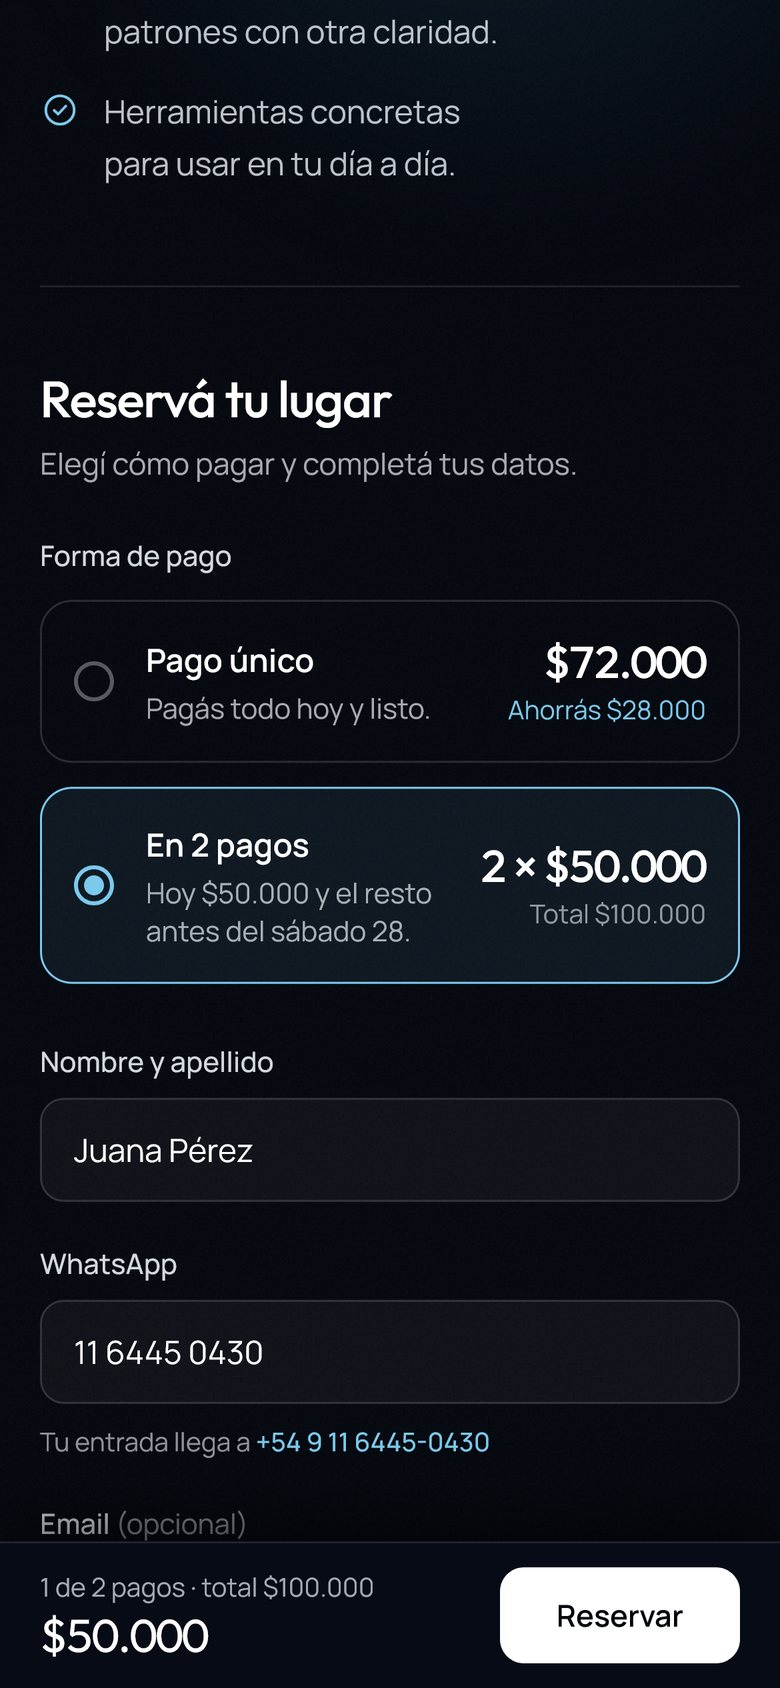
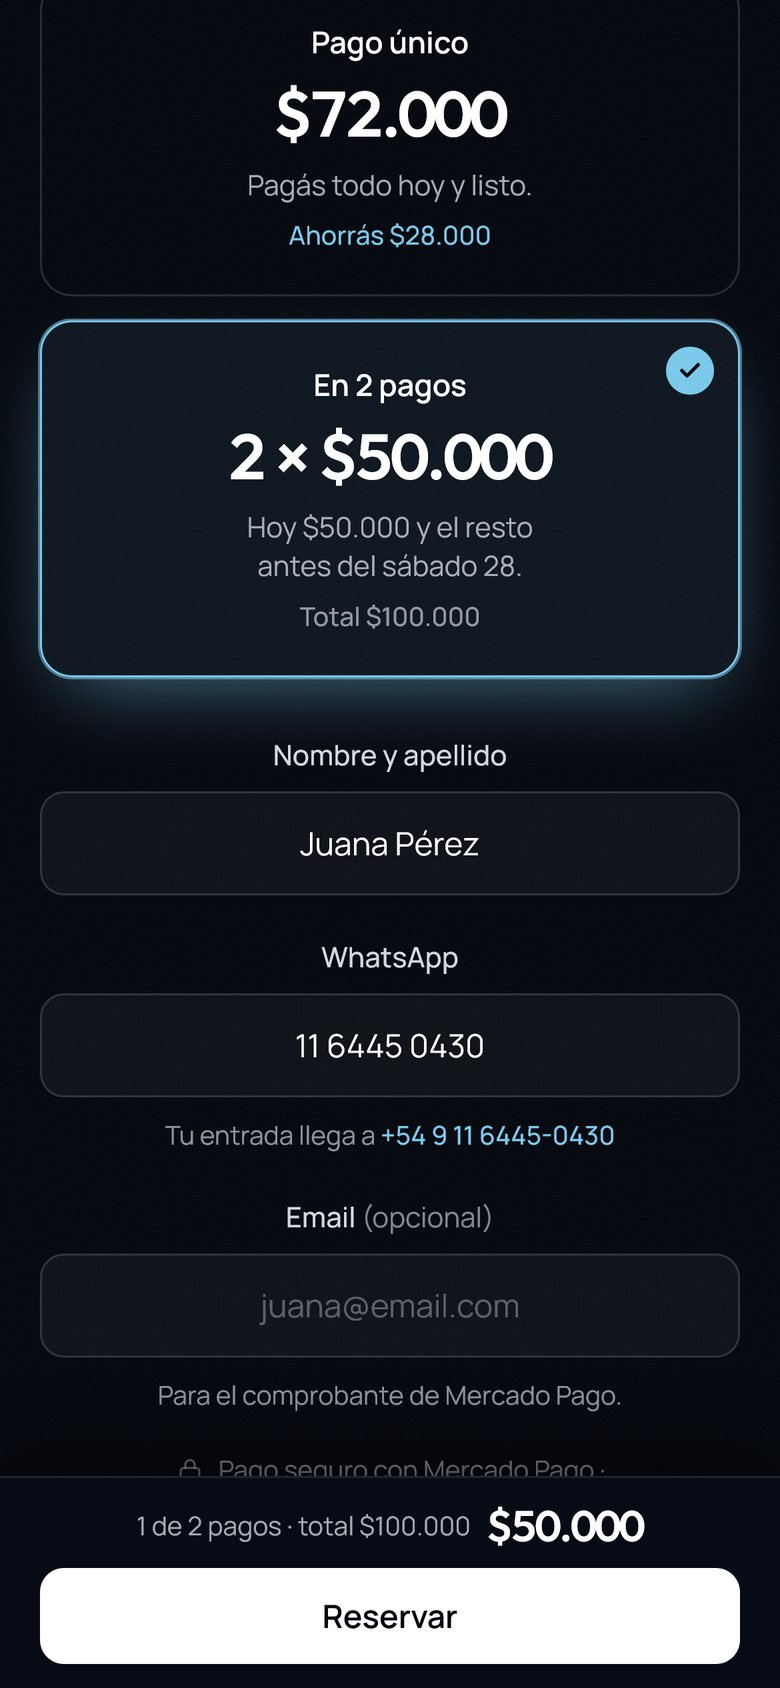
feat: /entradas centrada en celular
Solo debajo de lg (escritorio queda igual): linea superior, titulo y
bajada centrados con text-wrap balance; fecha centrada y datos en 2x2 con
el icono arriba; "Que te llevas" centrado; opciones de pago con el
contenido centrado y la elegida marcada con borde, brillo y un check en la
esquina (el radio sigue accesible); labels, ayudas, errores y texto de los
inputs centrados; barra fija con plan y total centrados arriba del boton a
ancho completo (~106 px). Al validar, el campo que falta queda al centro de
la pantalla y no tapado por la barra. Capturas en 390 y 360 actualizadas.

diff --git a/app/components/TicketCheckout.tsx b/app/components/TicketCheckout.tsx
@@ -138,6 +138,8 @@ export function TicketCheckout({
   const redirecting = Boolean(redirectUrl);
   const busy = isPending || redirecting;
   const showErrors = touched;
+  // /entradas en celular (< lg): textos, campos y avisos centrados. Escritorio igual que siempre.
+  const center = variant === 'page' ? ' text-center lg:text-left' : '';
 
   const buttonLabel = !hydrated
     ? 'Cargando…'
@@ -155,8 +157,11 @@ export function TicketCheckout({
     setError(null);
     if (!hydrated || busy) return;
     if (!isValid) {
-      // Llevamos a la persona al primer dato que falta (en celular puede estar arriba).
-      (!nameOk ? nameRef : !phoneOk ? phoneRef : emailRef).current?.focus();
+      // Llevamos a la persona al primer dato que falta, al centro de la pantalla:
+      // con el scroll normal del foco quedaba tapado por la barra fija del celular.
+      const target = (!nameOk ? nameRef : !phoneOk ? phoneRef : emailRef).current;
+      target?.focus({ preventScroll: true });
+      target?.scrollIntoView({ behavior: 'smooth', block: 'center' });
       return;
     }
 
@@ -212,24 +217,100 @@ export function TicketCheckout({
         ) : null}
 
         {variant === 'page' ? (
-          <div>
+          <div className={center}>
             <h2 className="display-sm text-[1.6rem] leading-tight text-white">Reservá tu lugar</h2>
-            <p className="mt-1.5 text-[15px] text-ivory/70">Elegí cómo pagar y completá tus datos.</p>
+            <p className="mt-1.5 text-[15px] text-ivory/70 [text-wrap:balance]">Elegí cómo pagar y completá tus datos.</p>
           </div>
         ) : null}
 
         {typeof remaining === 'number' && remaining > 0 && remaining <= 15 ? (
-          <p className="mt-4 inline-flex rounded-full border border-sand/40 bg-sand/10 px-3 py-1 text-[13px] font-medium text-sand">
-            {remaining === 1 ? 'Queda 1 lugar' : `Quedan ${remaining} lugares`}
-          </p>
+          <div className={center}>
+            <p className="mt-4 inline-flex rounded-full border border-sand/40 bg-sand/10 px-3 py-1 text-[13px] font-medium text-sand">
+              {remaining === 1 ? 'Queda 1 lugar' : `Quedan ${remaining} lugares`}
+            </p>
+          </div>
         ) : null}
 
         <fieldset className={variant === 'modal' ? 'mt-5' : 'mt-6'}>
-          <legend className={labelClass}>Forma de pago</legend>
+          <legend className={`${labelClass}${variant === 'page' ? ' w-full text-center lg:text-left' : ''}`}>
+            Forma de pago
+          </legend>
           <div className="mt-3 grid gap-3">
             {(Object.keys(PLAN_COPY) as TicketPlan[]).map((id) => {
               const copy = PLAN_COPY[id];
               const active = plan === id;
+              const radio = (
+                <input
+                  type="radio"
+                  name={`plan-${ids}`}
+                  value={id}
+                  checked={active}
+                  onChange={() => setPlan(id)}
+                  className="sr-only"
+                />
+              );
+
+              /*
+                /entradas en celular: contenido centrado y la opcion elegida
+                marcada con borde, brillo y un check en la esquina (el radio
+                sigue ahi, invisible, para teclado y lectores de pantalla).
+                En escritorio, la misma fila de siempre con el radio a la izquierda.
+              */
+              if (variant === 'page') {
+                return (
+                  <label
+                    key={id}
+                    className={`relative flex cursor-pointer flex-col items-center rounded-2xl border px-5 py-5 text-center transition has-[:focus-visible]:ring-2 has-[:focus-visible]:ring-celeste/70 lg:flex-row lg:gap-4 lg:px-5 lg:py-4 lg:text-left lg:shadow-none ${
+                      active
+                        ? 'border-celeste bg-celeste/[0.08] shadow-[0_0_0_1px_rgba(124,201,236,0.55),0_14px_40px_-14px_rgba(124,201,236,0.6)]'
+                        : 'border-ivory/15 [@media(hover:hover)]:hover:border-ivory/35'
+                    }`}
+                  >
+                    {radio}
+                    {active ? (
+                      <span
+                        aria-hidden="true"
+                        className="absolute right-3 top-3 flex h-6 w-6 items-center justify-center rounded-full bg-celeste text-night lg:hidden"
+                      >
+                        <svg viewBox="0 0 24 24" className="h-3.5 w-3.5" fill="none" stroke="currentColor" strokeWidth={3} strokeLinecap="round" strokeLinejoin="round">
+                          <path d="m5 12.5 4.5 4.5L19 7.5" />
+                        </svg>
+                      </span>
+                    ) : null}
+
+                    {/* celular */}
+                    <span className="flex flex-col items-center lg:hidden">
+                      <span className="text-[15px] font-semibold text-white">{copy.title}</span>
+                      <span className="numeric mt-1 text-[2rem] font-semibold leading-tight text-white">{copy.price}</span>
+                      <span className="mt-1.5 max-w-[17rem] text-[14px] leading-snug text-ivory/70 [text-wrap:balance]">
+                        {copy.detail}
+                      </span>
+                      <span className={`mt-1.5 text-[13px] font-medium ${id === 'FULL' ? 'text-celeste' : 'text-ivory/60'}`}>
+                        {copy.note}
+                      </span>
+                    </span>
+
+                    {/* escritorio */}
+                    <span
+                      aria-hidden="true"
+                      className={`hidden h-5 w-5 flex-none items-center justify-center rounded-full border-2 lg:flex ${
+                        active ? 'border-celeste' : 'border-ivory/35'
+                      }`}
+                    >
+                      {active ? <span className="h-2.5 w-2.5 rounded-full bg-celeste" /> : null}
+                    </span>
+                    <span className="hidden min-w-0 flex-1 lg:block">
+                      <span className="block text-[16px] font-semibold text-white">{copy.title}</span>
+                      <span className="mt-0.5 block text-[14px] leading-snug text-ivory/70">{copy.detail}</span>
+                    </span>
+                    <span className="hidden flex-none text-right lg:block">
+                      <span className="numeric block text-[1.55rem] font-medium leading-tight text-white">{copy.price}</span>
+                      <span className={`block text-[13px] ${id === 'FULL' ? 'text-celeste' : 'text-ivory/60'}`}>{copy.note}</span>
+                    </span>
+                  </label>
+                );
+              }
+
               return (
                 <label
                   key={id}
@@ -237,14 +318,7 @@ export function TicketCheckout({
                     active ? 'border-celeste bg-celeste/[0.08]' : 'border-ivory/15 hover:border-ivory/35'
                   }`}
                 >
-                  <input
-                    type="radio"
-                    name={`plan-${ids}`}
-                    value={id}
-                    checked={active}
-                    onChange={() => setPlan(id)}
-                    className="sr-only"
-                  />
+                  {radio}
                   <span
                     aria-hidden="true"
                     className={`flex h-5 w-5 flex-none items-center justify-center rounded-full border-2 ${
@@ -273,13 +347,13 @@ export function TicketCheckout({
 
         <div className="mt-7 grid gap-5">
           <div>
-            <label htmlFor={fieldIds.name} className={labelClass}>
+            <label htmlFor={fieldIds.name} className={`${labelClass}${center}`}>
               Nombre y apellido
             </label>
             <input
               ref={nameRef}
               id={fieldIds.name}
-              className={inputClass(showErrors && !nameOk)}
+              className={`${inputClass(showErrors && !nameOk)}${center}`}
               placeholder="Juana Pérez"
               value={fullName}
               onChange={(e) => setFullName(e.target.value)}
@@ -289,20 +363,20 @@ export function TicketCheckout({
               aria-describedby={showErrors && !nameOk ? fieldIds.nameError : undefined}
             />
             {showErrors && !nameOk ? (
-              <p id={fieldIds.nameError} className={errorTextClass}>
+              <p id={fieldIds.nameError} className={`${errorTextClass}${center}`}>
                 Escribí tu nombre y apellido.
               </p>
             ) : null}
           </div>
 
           <div>
-            <label htmlFor={fieldIds.phone} className={labelClass}>
+            <label htmlFor={fieldIds.phone} className={`${labelClass}${center}`}>
               WhatsApp
             </label>
             <input
               ref={phoneRef}
               id={fieldIds.phone}
-              className={inputClass(showErrors && !phoneOk)}
+              className={`${inputClass(showErrors && !phoneOk)}${center}`}
               placeholder="11 6445 0430"
               value={phone}
               onChange={(e) => setPhone(e.target.value)}
@@ -312,7 +386,7 @@ export function TicketCheckout({
               aria-invalid={showErrors && !phoneOk}
               aria-describedby={fieldIds.phoneHint}
             />
-            <p id={fieldIds.phoneHint} className={showErrors && !phoneOk ? errorTextClass : hintClass}>
+            <p id={fieldIds.phoneHint} className={`${showErrors && !phoneOk ? errorTextClass : hintClass}${center}`}>
               {showErrors && !phoneOk ? (
                 ERROR_TEXT.PHONE
               ) : phoneOk ? (
@@ -326,13 +400,13 @@ export function TicketCheckout({
           </div>
 
           <div>
-            <label htmlFor={fieldIds.email} className={labelClass}>
+            <label htmlFor={fieldIds.email} className={`${labelClass}${center}`}>
               Email <span className="font-normal text-ivory/55">(opcional)</span>
             </label>
             <input
               ref={emailRef}
               id={fieldIds.email}
-              className={inputClass(showErrors && !emailOk)}
+              className={`${inputClass(showErrors && !emailOk)}${center}`}
               placeholder="juana@email.com"
               value={email}
               onChange={(e) => setEmail(e.target.value)}
@@ -342,7 +416,7 @@ export function TicketCheckout({
               aria-invalid={showErrors && !emailOk}
               aria-describedby={fieldIds.emailHint}
             />
-            <p id={fieldIds.emailHint} className={showErrors && !emailOk ? errorTextClass : hintClass}>
+            <p id={fieldIds.emailHint} className={`${showErrors && !emailOk ? errorTextClass : hintClass}${center}`}>
               {showErrors && !emailOk ? 'Revisá el email o dejalo vacío.' : 'Para el comprobante de Mercado Pago.'}
             </p>
           </div>
@@ -368,7 +442,7 @@ export function TicketCheckout({
           <div
             ref={alertRef}
             role="alert"
-            className="mt-6 scroll-mb-32 rounded-xl border border-sand/40 bg-sand/[0.08] p-4 text-[15px] leading-relaxed text-sand"
+            className={`mt-6 scroll-mb-32 rounded-xl border border-sand/40 bg-sand/[0.08] p-4 text-[15px] leading-relaxed text-sand${center}`}
           >
             {ERROR_TEXT[error]}
             {error === 'SOLD_OUT' || error === 'PAYMENTS_OFF' ? (
@@ -411,19 +485,21 @@ export function TicketCheckout({
           className="fixed inset-x-0 bottom-0 z-40 border-t border-ivory/10 bg-[#070B15] shadow-[0_-12px_32px_rgba(0,0,0,0.55)] lg:hidden"
           style={{ paddingBottom: 'env(safe-area-inset-bottom, 0px)' }}
         >
-          <div className="mx-auto flex w-full max-w-xl items-center gap-4 px-5 py-3">
-            <div className="min-w-0 flex-1" aria-live="polite">
-              <p className="truncate text-[13px] text-ivory/70">
+          {/* Plan y total centrados en una linea, boton a ancho completo abajo
+              (la barra queda en ~106 px de alto, sin contar el borde seguro del iPhone). */}
+          <div className="mx-auto w-full max-w-xl px-5 pb-3 pt-2.5">
+            <p className="truncate text-center leading-tight" aria-live="polite">
+              <span className="align-middle text-[13px] text-ivory/70">
                 {plan === 'FULL' ? 'Pago único' : `1 de 2 pagos · total ${SPLIT_TOTAL_LABEL}`}
-              </p>
-              <p className="numeric text-[1.45rem] leading-tight text-white">{firstPayment}</p>
-            </div>
+              </span>
+              <span className="numeric ml-2 align-middle text-[1.35rem] font-semibold text-white">{firstPayment}</span>
+            </p>
             <button
               type="submit"
               form={formId}
               disabled={busy || !hydrated}
               aria-busy={busy || !hydrated}
-              className="h-12 min-w-[7.5rem] flex-none rounded-xl bg-celeste px-6 text-[15px] font-semibold text-night transition [@media(hover:hover)]:hover:bg-white focus-visible:outline-none focus-visible:ring-2 focus-visible:ring-white focus-visible:ring-offset-2 focus-visible:ring-offset-night disabled:cursor-wait disabled:opacity-75"
+              className="mt-2 h-12 w-full rounded-xl bg-celeste px-6 text-[16px] font-semibold text-night transition [@media(hover:hover)]:hover:bg-white focus-visible:outline-none focus-visible:ring-2 focus-visible:ring-white focus-visible:ring-offset-2 focus-visible:ring-offset-night disabled:cursor-wait disabled:opacity-75"
             >
               {!hydrated
                 ? 'Cargando…'

diff --git a/app/entradas/page.tsx b/app/entradas/page.tsx
@@ -59,42 +59,48 @@ export default async function EntradasPage() {
     <EntradasShell wide>
       <div className="grid gap-12 lg:grid-cols-[minmax(0,1fr)_minmax(0,27rem)] lg:items-start lg:gap-16 xl:gap-24">
         {/* ------------------------------------------------------- evento */}
-        <section aria-labelledby="titulo-taller" className="lg:pt-4">
+        {/* Celular y tablet (< lg): todo centrado sobre el mismo eje.
+            Escritorio (lg): alineado a la izquierda, como siempre. */}
+        <section aria-labelledby="titulo-taller" className="text-center lg:pt-4 lg:text-left">
           <p className="text-[15px] font-medium text-celeste">Metamorfosis · 7ma edición</p>
           <h1
             id="titulo-taller"
-            className="display mt-3 max-w-[14ch] text-[2.4rem] leading-[1.05] text-white [text-wrap:balance] sm:text-[3.1rem] lg:text-[3.6rem]"
+            className="display mx-auto mt-3 max-w-[14ch] text-[2.1rem] leading-[1.05] text-white [text-wrap:balance] min-[380px]:text-[2.4rem] sm:text-[3.1rem] lg:mx-0 lg:text-[3.6rem]"
           >
             Taller vivencial de inteligencia emocional
           </h1>
-          <p className="mt-5 max-w-[34rem] text-[17px] leading-relaxed text-ivory/75 [text-wrap:balance] sm:text-[19px]">
+          <p className="mx-auto mt-5 max-w-[34rem] text-[17px] leading-relaxed text-ivory/75 [text-wrap:balance] sm:text-[19px] lg:mx-0">
             Un fin de semana para frenar, entender lo que sentís y salir con herramientas que se usan.
           </p>
 
-          {/* Fecha + datos en un solo panel: en celular la fecha arriba y los
-              datos en 2 columnas; desde sm, fecha a la izquierda y datos al lado. */}
-          <div className="mt-9 rounded-2xl border border-ivory/10 bg-white/[0.03] p-4 sm:inline-flex sm:items-center sm:gap-8 sm:p-6">
-            <div className="flex items-center gap-4 sm:flex-col sm:items-start sm:gap-2">
-              <p className="numeric text-[2.9rem] font-bold leading-none text-white sm:text-[3.4rem]">
+          {/* Fecha + datos en un solo panel: en celular la fecha centrada arriba y
+              los datos en 2x2 (icono arriba del texto); en escritorio, fecha a la
+              izquierda y datos al lado. */}
+          <div className="mt-9 rounded-2xl border border-ivory/10 bg-white/[0.03] px-4 py-5 lg:inline-flex lg:items-center lg:gap-8 lg:p-6">
+            <div className="flex items-center justify-center gap-4 lg:flex-col lg:items-start lg:gap-2">
+              <p className="numeric text-[2.9rem] font-bold leading-none text-white lg:text-[3.4rem]">
                 <span className="sr-only">28 y 29 de noviembre de 2026</span>
                 <span aria-hidden="true">28–29</span>
               </p>
               <p aria-hidden="true" className="text-[13px] font-semibold leading-tight tracking-[0.18em] text-celeste">
-                <span className="mr-2 sm:mr-0 sm:block">NOV</span>
-                <span className="sm:block">2026</span>
+                <span className="mr-2 lg:mr-0 lg:block">NOV</span>
+                <span className="lg:block">2026</span>
               </p>
             </div>
 
-            <div aria-hidden="true" className="my-5 h-px bg-ivory/10 sm:my-0 sm:h-24 sm:w-px" />
+            <div aria-hidden="true" className="my-5 h-px bg-ivory/10 lg:my-0 lg:h-24 lg:w-px" />
 
-            <ul className="grid grid-cols-[auto_1fr] gap-x-5 gap-y-3 sm:grid-cols-1 sm:gap-y-2.5">
+            <ul className="grid grid-cols-2 gap-x-3 gap-y-5 lg:grid-cols-1 lg:gap-y-2.5">
               {FACTS.map(({ icon: Icon, text, short }) => (
-                <li key={text} className="flex items-center gap-2 whitespace-nowrap text-[14px] text-ivory/85 sm:gap-2.5 sm:text-[15px]">
+                <li
+                  key={text}
+                  className="flex flex-col items-center gap-1.5 whitespace-nowrap text-[14px] text-ivory/85 lg:flex-row lg:gap-2.5 lg:text-[15px]"
+                >
                   <Icon className="h-5 w-5 flex-none text-celeste" />
                   {short ? (
                     <>
-                      <span className="sm:hidden">{short}</span>
-                      <span className="hidden sm:inline">{text}</span>
+                      <span className="lg:hidden">{short}</span>
+                      <span className="hidden lg:inline">{text}</span>
                     </>
                   ) : (
                     text
@@ -106,10 +112,13 @@ export default async function EntradasPage() {
 
           <div className="mt-10 border-t border-ivory/10 pt-8">
             <h2 className="text-[17px] font-semibold text-white">Qué te llevás</h2>
-            <ul className="mt-4 grid gap-3.5">
+            <ul className="mt-5 grid gap-5 lg:mt-4 lg:gap-3.5">
               {TAKEAWAYS.map((item) => (
-                <li key={item} className="flex gap-3 text-[16px] leading-relaxed text-ivory/80">
-                  <CheckIcon className="mt-0.5 h-5 w-5 flex-none text-celeste" />
+                <li
+                  key={item}
+                  className="flex flex-col items-center gap-2 text-[16px] leading-relaxed text-ivory/80 lg:flex-row lg:items-start lg:gap-3"
+                >
+                  <CheckIcon className="h-5 w-5 flex-none text-celeste lg:mt-0.5" />
                   <span className="[text-wrap:balance]">{item}</span>
                 </li>
               ))}
@@ -123,7 +132,7 @@ export default async function EntradasPage() {
         <aside aria-label="Comprar entrada" className="border-t border-ivory/10 pt-10 lg:self-stretch lg:border-0 lg:pt-0">
           <div className="lg:sticky lg:top-8 lg:rounded-[28px] lg:border lg:border-ivory/10 lg:bg-[#0A1120]/90 lg:p-8 lg:shadow-[0_40px_120px_-60px_rgba(124,201,236,0.5)]">
             {remaining === 0 ? (
-              <div>
+              <div className="text-center lg:text-left">
                 <h2 className="display-sm text-[1.6rem] leading-tight text-white">Se agotaron las entradas</h2>
                 <p className="mt-3 text-[16px] leading-relaxed text-ivory/75">
                   Se completaron los {TICKET_CAPACITY} lugares de esta edición. Escribinos por Instagram y te sumamos a la
